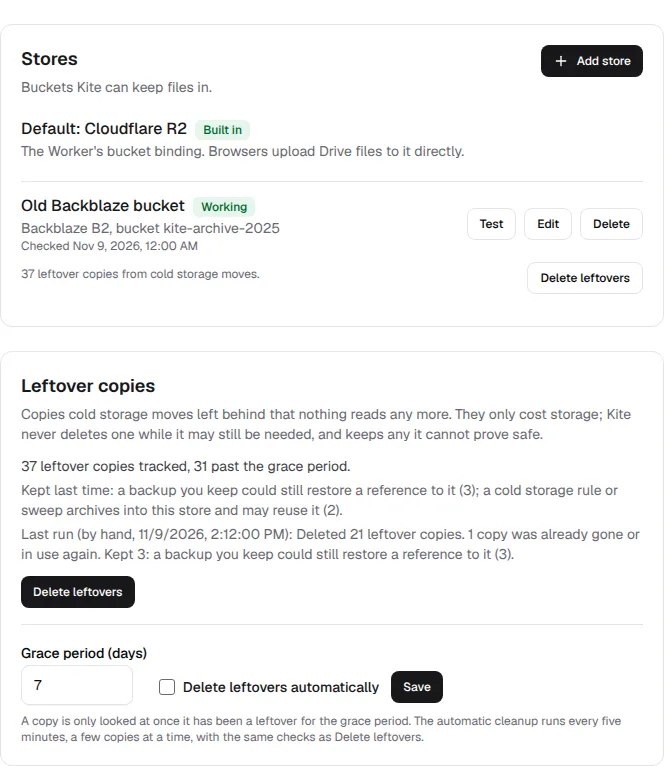
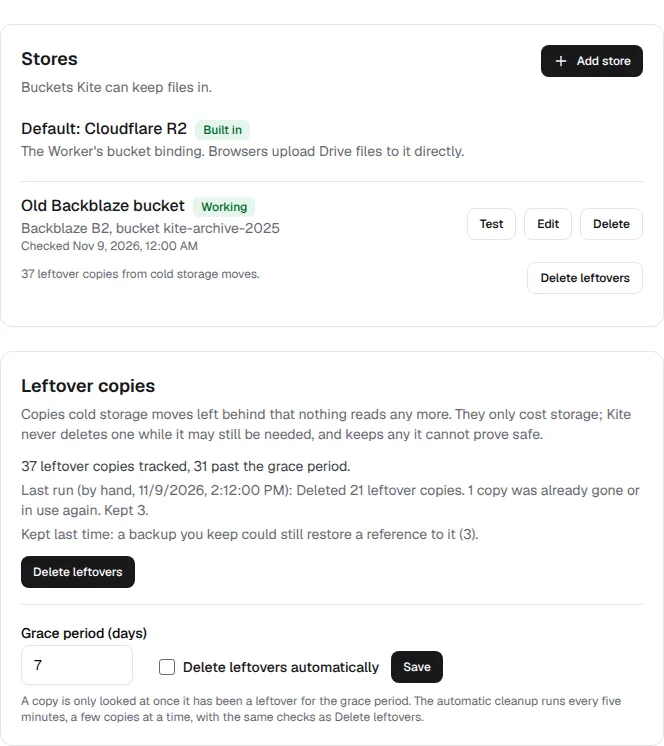
Leftover cleanup: bound the post-confirm window, confirm bytes, Drive default store, review fixes

diff --git a/src/lib/storage/cold-leftovers.ts b/src/lib/storage/cold-leftovers.ts
@@ -43,6 +43,13 @@ const MANUAL_LEFTOVER_LIMIT = 50;
 const AUTOMATIC_LEFTOVER_LIMIT = 25;
 
 const seconds = (date: Date) => Math.floor(date.getTime() / 1000);
+/** How long after its final check (`confirmLeftoverClaim`, which extends the claim to 15 minutes) a delete may still
+ * be issued, and how long that delete may take: both far inside the claim, so a stalled cleanup gives up instead of
+ * deleting a copy another deleter may by then have relied on (review of #479, `M1`). */
+const CONFIRM_TO_DELETE_MS = 30_000;
+const DELETE_TIMEOUT_MS = 30_000;
+/** Objects up to this size are compared byte for byte (SHA-256) when their ETags do not already match. */
+const HASH_COMPARE_MAX_BYTES = 8 * 1024 * 1024;
 
 /**
  * Whether a restore keeps the cleanup off entirely, and when the last one ended. A restore empties and rewrites
@@ -88,7 +95,7 @@ async function backupObjectsRestoring(env: LeftoverEnv): Promise<boolean> {
  */
 async function backupCouldHold(env: LeftoverEnv, from: number | null, until: number): Promise<boolean> {
 	const row = await env.DB.prepare(
-		`SELECT 1 AS found FROM backups WHERE status IN ('completed', 'queued', 'running') AND created_at < ?
+		`SELECT 1 AS found FROM backups WHERE status IN ('completed', 'queued', 'running') AND created_at <= ?
 		 AND (? IS NULL OR completed_at IS NULL OR completed_at >= ?) LIMIT 1`,
 	)
 		.bind(until, from, from)
@@ -212,7 +219,8 @@ async function driveRowStore(env: LeftoverEnv, key: string): Promise<string | nu
 	const row = await env.DB.prepare("SELECT store_id FROM drive_items WHERE id = ? AND object_key = ?")
 		.bind(id, key)
 		.first<{ store_id: string | null }>();
-	return row?.store_id ?? null;
+	// Drive reads a row without a store from the default store (`drive/objects.ts`).
+	return row ? (row.store_id ?? DEFAULT_STORE_ID) : null;
 }
 
 /** For a key with no location row: a store a reader finds the key on without one (Drive's own row's store, then
@@ -278,8 +286,16 @@ async function deleteUnderClaim(
 	const { env } = context;
 	const changed = await changedSinceStart(context, candidate, superseded);
 	if (changed) return changed;
+	// Timed from before the confirm is sent: a cleanup that stalled after it gives up rather than delete a copy a
+	// second cleanup or a mover may since have relied on (the claim it extended outlasts both limits by far).
+	const confirmedFrom = Date.now();
 	if (!(await confirmLeftoverClaim(env, candidate.key, claim))) return "lease_lost";
-	await store.bucket.delete(candidate.key);
+	if (Date.now() - confirmedFrom > CONFIRM_TO_DELETE_MS) return "lease_lost";
+	// A store's own client honours the deadline; the R2 binding and the Node file bucket ignore the option.
+	await (store.bucket as { delete(key: string, options?: { timeoutMs?: number }): Promise<void> }).delete(
+		candidate.key,
+		{ timeoutMs: DELETE_TIMEOUT_MS },
+	);
 	const dropped = await dropCandidateUnderClaim(env, candidate.id, candidate.key, claim);
 	if (dropped && dropLocation) await dropLocationUnderClaim(env, candidate.key, claim);
 	log.info("storage.cold_leftover_deleted", {
@@ -288,6 +304,33 @@ async function deleteUnderClaim(
 		unreferenced: !superseded,
 	});
 	return "deleted";
+}
+
+const etagOf = (head: { etag?: string | null }) => (head.etag ?? "").replace(/^W\//, "").replace(/"/g, "").trim();
+
+async function sha256Of(store: ObjectStore, key: string): Promise<string | null> {
+	const object = await store.bucket.get(key);
+	if (!object || !("arrayBuffer" in object)) return null;
+	const digest = await crypto.subtle.digest("SHA-256", await object.arrayBuffer());
+	return Buffer.from(digest).toString("hex");
+}
+
+/**
+ * Whether the live copy holds the leftover's bytes, not just as many of them (review of #479, `m2`): equal ETags
+ * across the two stores (an MD5, or the same multipart layout of MD5s), or else, for an object small enough, equal
+ * SHA-256 digests of both. Anything that cannot be confirmed keeps the leftover (`unverified`).
+ */
+async function sameBytes(
+	store: ObjectStore,
+	other: ObjectStore,
+	key: string,
+	own: { etag?: string | null; size: number },
+	copy: { etag?: string | null; size: number },
+): Promise<boolean> {
+	if (etagOf(own) && etagOf(own) === etagOf(copy)) return true;
+	if (own.size > HASH_COMPARE_MAX_BYTES) return false;
+	const [mine, theirs] = await Promise.all([sha256Of(store, key), sha256Of(other, key)]);
+	return !!mine && mine === theirs;
 }
 
 /** A leftover of a key nothing references: no other copy needed, but no retained backup may hold a reference. */
@@ -336,6 +379,7 @@ async function settleSuperseded(
 	const other = storage.store(otherStoreId);
 	const copy = other ? await other.bucket.head(candidate.key) : null;
 	if (!copy || copy.size !== own.size) return "only_copy";
+	if (!(await sameBytes(store, other!, candidate.key, own, copy))) return "unverified";
 	return await deleteUnderClaim(context, store, candidate, claim, { superseded: true, dropLocation: false });
 }
 

diff --git a/src/app/(admin)/storage/leftovers-card.tsx b/src/app/(admin)/storage/leftovers-card.tsx
@@ -164,7 +164,8 @@ function AutomaticCleanupForm({ overview, onChanged }: { overview: StorageOvervi
 export function LeftoversCard({ overview, onChanged }: { overview: StorageOverview; onChanged: () => void }) {
 	const { leftovers } = overview;
 	if (!leftovers.available) return null;
-	const kept = keptReasonsText(leftovers.kept);
+	// Only the last run's reasons: a kept_reason on a row may be from an earlier run.
+	const kept = leftovers.lastRun ? keptReasonsText(leftovers.lastRun.kept) : "";
 	return (
 		<section aria-labelledby="storage-leftovers" className="rounded-xl border border-neutral-200 bg-white p-5">
 			<h2 id="storage-leftovers" className="text-lg font-semibold text-neutral-900">
@@ -180,13 +181,14 @@ export function LeftoversCard({ overview, onChanged }: { overview: StorageOvervi
 						{leftovers.total.toLocaleString()} {leftovers.total === 1 ? "leftover copy" : "leftover copies"} tracked,{" "}
 						{leftovers.due.toLocaleString()} past the grace period.
 					</p>
-					{kept && <p className="text-neutral-500">Kept last time: {kept}.</p>}
 					{leftovers.lastRun && (
 						<p className="text-neutral-500">
 							Last run ({leftovers.lastRun.trigger === "automatic" ? "automatic" : "by hand"},{" "}
-							{new Date(leftovers.lastRun.at).toLocaleString()}): {leftoverRunText(leftovers.lastRun)}
+							{new Date(leftovers.lastRun.at).toLocaleString()}):{" "}
+							{leftoverRunText(leftovers.lastRun, { reasons: false })}
 						</p>
 					)}
+					{kept && <p className="text-neutral-500">Kept last time: {kept}.</p>}
 				</div>
 				<DeleteLeftovers
 					storeId={null}

diff --git a/src/app/(admin)/storage/leftovers-utils.ts b/src/app/(admin)/storage/leftovers-utils.ts
@@ -12,8 +12,9 @@ export function keptReasonsText(kept: Partial<Record<LeftoverKeptReason, number>
 		.join("; ");
 }
 
-/** One sentence about what a cleanup run did, for the status line after "Delete leftovers" or the last run. */
-export function leftoverRunText(run: LeftoverRunView): string {
+/** One sentence about what a cleanup run did, for the status line after "Delete leftovers" or the last run;
+ * `reasons: false` leaves out why copies were kept, for a page that lists those on a line of their own. */
+export function leftoverRunText(run: LeftoverRunView, { reasons = true }: { reasons?: boolean } = {}): string {
 	if (run.skipped === "restore")
 		return "Nothing was deleted: a backup restore is running, needs recovery or just finished.";
 	if (run.skipped === "unsupported") return "Nothing was deleted: apply the pending database update first.";
@@ -21,7 +22,12 @@ export function leftoverRunText(run: LeftoverRunView): string {
 	const parts = [`Deleted ${plural(run.deleted, "leftover copy", "leftover copies")}.`];
 	if (run.cleared) parts.push(`${plural(run.cleared, "copy was", "copies were")} already gone or in use again.`);
 	const keptCount = Object.values(run.kept).reduce((sum, count) => sum + (count ?? 0), 0);
-	if (keptCount) parts.push(`Kept ${keptCount.toLocaleString()}: ${keptReasonsText(run.kept)}.`);
+	if (keptCount)
+		parts.push(
+			reasons
+				? `Kept ${keptCount.toLocaleString()}: ${keptReasonsText(run.kept)}.`
+				: `Kept ${keptCount.toLocaleString()}.`,
+		);
 	return parts.join(" ");
 }
 

diff --git a/src/lib/storage/object-locations.ts b/src/lib/storage/object-locations.ts
@@ -401,6 +401,9 @@ export async function withPurgeLease<T>(
  * that claim, and whether the cleanup created that row itself (a key with no row), never a real location. */
 export type LeftoverClaim = { token: string; storeId: string; created: boolean };
 
+/** How long `confirmLeftoverClaim` holds the key once it passes. */
+const LEFTOVER_CONFIRM_SECONDS = 15 * 60;
+
 /**
  * Takes the same location lease a cold move and a storage-migration purge hold, for the leftover cleanup deciding
  * about one copy of `key`. An existing row is claimed the usual way (an expired claim is taken over), and the
@@ -455,11 +458,12 @@ export async function claimKeyForLeftover(
  */
 export async function confirmLeftoverClaim(env: LocationEnv, key: string, claim: LeftoverClaim, now = new Date()) {
 	const nowSeconds = Math.floor(now.getTime() / 1000);
+	// Extended well past the cleanup's own 30-second limit for issuing and finishing its delete (`M1`).
 	const result = await env.DB.prepare(
 		`UPDATE object_locations SET claimed_until = ?
 		 WHERE key = ? AND lease_token = ? AND claimed_until >= ? AND store_id = ?`,
 	)
-		.bind(nowSeconds + LEASE_SECONDS, key, claim.token, nowSeconds, claim.storeId)
+		.bind(nowSeconds + LEFTOVER_CONFIRM_SECONDS, key, claim.token, nowSeconds, claim.storeId)
 		.run();
 	return (result.meta?.changes ?? 0) > 0;
 }

diff --git a/src/lib/storage/s3-bucket.ts b/src/lib/storage/s3-bucket.ts
@@ -238,14 +238,18 @@ export class S3Bucket {
 		return new S3Object(key, new Response(null, { headers: http }), length);
 	}
 
-	/** Deletes up to 10 keys at a time in parallel, as upstream does; a key that is already gone is fine. */
-	async delete(keys: string | string[]): Promise<void> {
+	/** Deletes up to 10 keys at a time in parallel, as upstream does; a key that is already gone is fine. A
+	 * `timeoutMs` bounds each request, for a caller whose right to delete only lasts so long. */
+	async delete(keys: string | string[], options?: { timeoutMs?: number }): Promise<void> {
 		const list = Array.isArray(keys) ? keys : [keys];
 		for (let index = 0; index < list.length; index += 10) {
 			await Promise.all(
 				list.slice(index, index + 10).map(async (key) => {
 					try {
-						await this.request(key, { method: "DELETE" });
+						await this.request(key, {
+							method: "DELETE",
+							...(options?.timeoutMs ? { timeoutMs: options.timeoutMs } : {}),
+						});
 					} catch (error) {
 						if (!isMissing(error)) throw error;
 					}

diff --git a/src/lib/storage/cold-leftovers-utils.ts b/src/lib/storage/cold-leftovers-utils.ts
@@ -5,6 +5,7 @@ export const LEFTOVER_KEPT_REASONS = [
 	"confirming",
 	"backup",
 	"only_copy",
+	"unverified",
 	"cold_target",
 	"migrating",
 	"restore",
@@ -28,6 +29,7 @@ export const KEPT_REASON_TEXT: Record<LeftoverKeptReason, string> = {
 	confirming: "first seen unused; waiting out the grace period before deleting it",
 	backup: "a backup you keep could still restore a reference to it",
 	only_copy: "no other readable copy was found",
+	unverified: "its other copy could not be confirmed to hold the same bytes",
 	cold_target: "a cold storage rule or sweep archives into this store and may reuse it",
 	migrating: "a storage migration is using this store",
 	restore: "a backup restore started while it was being checked",

diff --git a/docs/operations.md b/docs/operations.md
@@ -462,15 +462,15 @@ fenced lease a cold move and a storage-migration purge take, so the three never 
    readable copy found by HEAD (Drive's own row's store, the class's read chain, the default store), or the
    leftover's own store when there is none. It never names a store that does not hold the object, and the row is
    removed again when the cleanup ends (or dropped as stranded once its claim expires).
-2. **The plan** (`planLeftover`): a copy the live location names, or the store a Drive file's own row names, is
-   live and never deleted (only its tracking row goes). A referenced key whose only copy found is the leftover
-   keeps it (`only_copy`, logged as `storage.cold_leftover_only_copy`). Anything else is either *superseded* (the
+2. **The plan** (`planLeftover`): a copy the live location names, or the store a Drive file's own row names (the
+   default store when it names none), is live and never deleted (only its tracking row goes). A referenced key
+   whose only copy found is the leftover keeps it (`only_copy`, logged as `storage.cold_leftover_only_copy`). Anything else is either *superseded* (the
    live copy is elsewhere) or *unreferenced* (nothing names the key: no message, attachment, body, Drive item,
    completed backup or queued send).
 3. **Superseded** copies are deleted only when no retained backup (completed, queued or running, safety and
    pre-migration backups included) falls in the window `[moved_at, first_orphaned_at)` in which this copy was the
    recorded location, no enabled rule or in-flight sweep archives into its store (a move back there would reuse
-   it), and the live copy reads back by HEAD with the same size.
+   it), and the live copy reads back with the same bytes (below).
 4. **Unreferenced** copies need no other copy, but the key must have been seen unreferenced for the grace period
    since the last restore (`unreferenced_since`, reset by any restore after it, since only a restore brings a
    reference back), and no retained backup may have been created before that stretch began.
@@ -483,18 +483,29 @@ fenced lease a cold move and a storage-migration purge take, so the three never 
 The whole pass is skipped while a restore is active, needs recovery, finished less than an hour ago, or a full
 backup's objects are being copied back, and a leftover on a store a storage migration is copying from or to, or
 purging, is kept (`migrating`). Every copy it keeps gets its reason (`kept_reason`: `busy`, `confirming`,
-`backup`, `only_copy`, `cold_target`, `migrating`, `restore`, `store_unavailable`, `lease_lost`, `error`) and goes
+`backup`, `only_copy`, `unverified`, `cold_target`, `migrating`, `restore`, `store_unavailable`, `lease_lost`,
+`error`) and goes
 to the back of the queue; Admin → Storage shows the reasons, the totals, how many are past the grace period and
 the last run. Keeping a copy only costs storage; a case the rules cannot settle always keeps it.
 
-**The residual.** An object store cannot delete conditionally on a D1 row, so a cleanup that stalls for longer
-than the lease (five minutes) between `confirmLeftoverClaim` and the object delete could be overtaken in that
-window, like the storage-migration purge below. A mover could then only reuse the copy if it targets the
-leftover's store, which the cold-target check repeated right before the confirm rules out unless a rule is
-retargeted and a sweep started inside those same five minutes. `tests/storage-cold-leftovers.test.mjs` runs every
-other interleaving: a mover (to a third store, or onto the leftover's own store from a batch the cleanup cannot
-see), a migration purge, a migration dropping the row and a second cleanup injected at each step of the cleanup
-with its lease live or lapsed, and the cleanup injected at each step of a mover and of a purge.
+**The residual.** An object store cannot delete conditionally on a D1 row, so once `confirmLeftoverClaim` has
+passed, nothing on the object store's side stops the delete. If the claim ran out before the delete landed, any
+other deleter could have taken the key in between and relied on this very copy: a second cleanup settling the
+key's other leftover (two copies of a row-less key both in the read chain, each the other's "other copy"), a mover
+reusing it on its own store (a sweep batch that outlived its cursor still moves to its old target), or a
+migration purge. The cleanup therefore keeps that window far inside the claim (review of #479, `M1`):
+`confirmLeftoverClaim` extends the claim to 15 minutes, the delete is only sent if no more than 30 seconds have
+passed since the confirm was sent (otherwise the copy is kept as `lease_lost`), and on a configured S3 store the
+delete request itself is aborted after 30 seconds. What remains is a delete the object store executes more than
+14 minutes after it was sent, which no runtime here produces (the R2 binding and the Node file bucket cannot take a
+deadline, but neither queues a request for minutes). `tests/storage-cold-leftovers.test.mjs` runs every other
+interleaving: a mover (to a third store, or onto the leftover's own store from a batch the cleanup cannot see), a
+migration purge, a migration dropping the row and a second cleanup injected at each step of the cleanup with its
+lease live or lapsed, the cleanup injected at each step of a mover and of a purge, and a cleanup that stalls after
+its confirm while a second cleanup deletes the other copy.
+
+The live copy must also hold the same bytes, not just as many (`m2`): equal ETags on both stores, or else, for
+objects up to 8 MiB, equal SHA-256 digests; anything that cannot be confirmed is kept as `unverified`.
 
 `deleteStore` is refused while a rule still targets the store, `object_locations` still names it, or a sweep
 still in flight targets it (`coldReferenceBlocking`), and then, checked last, while leftover candidates are on it
